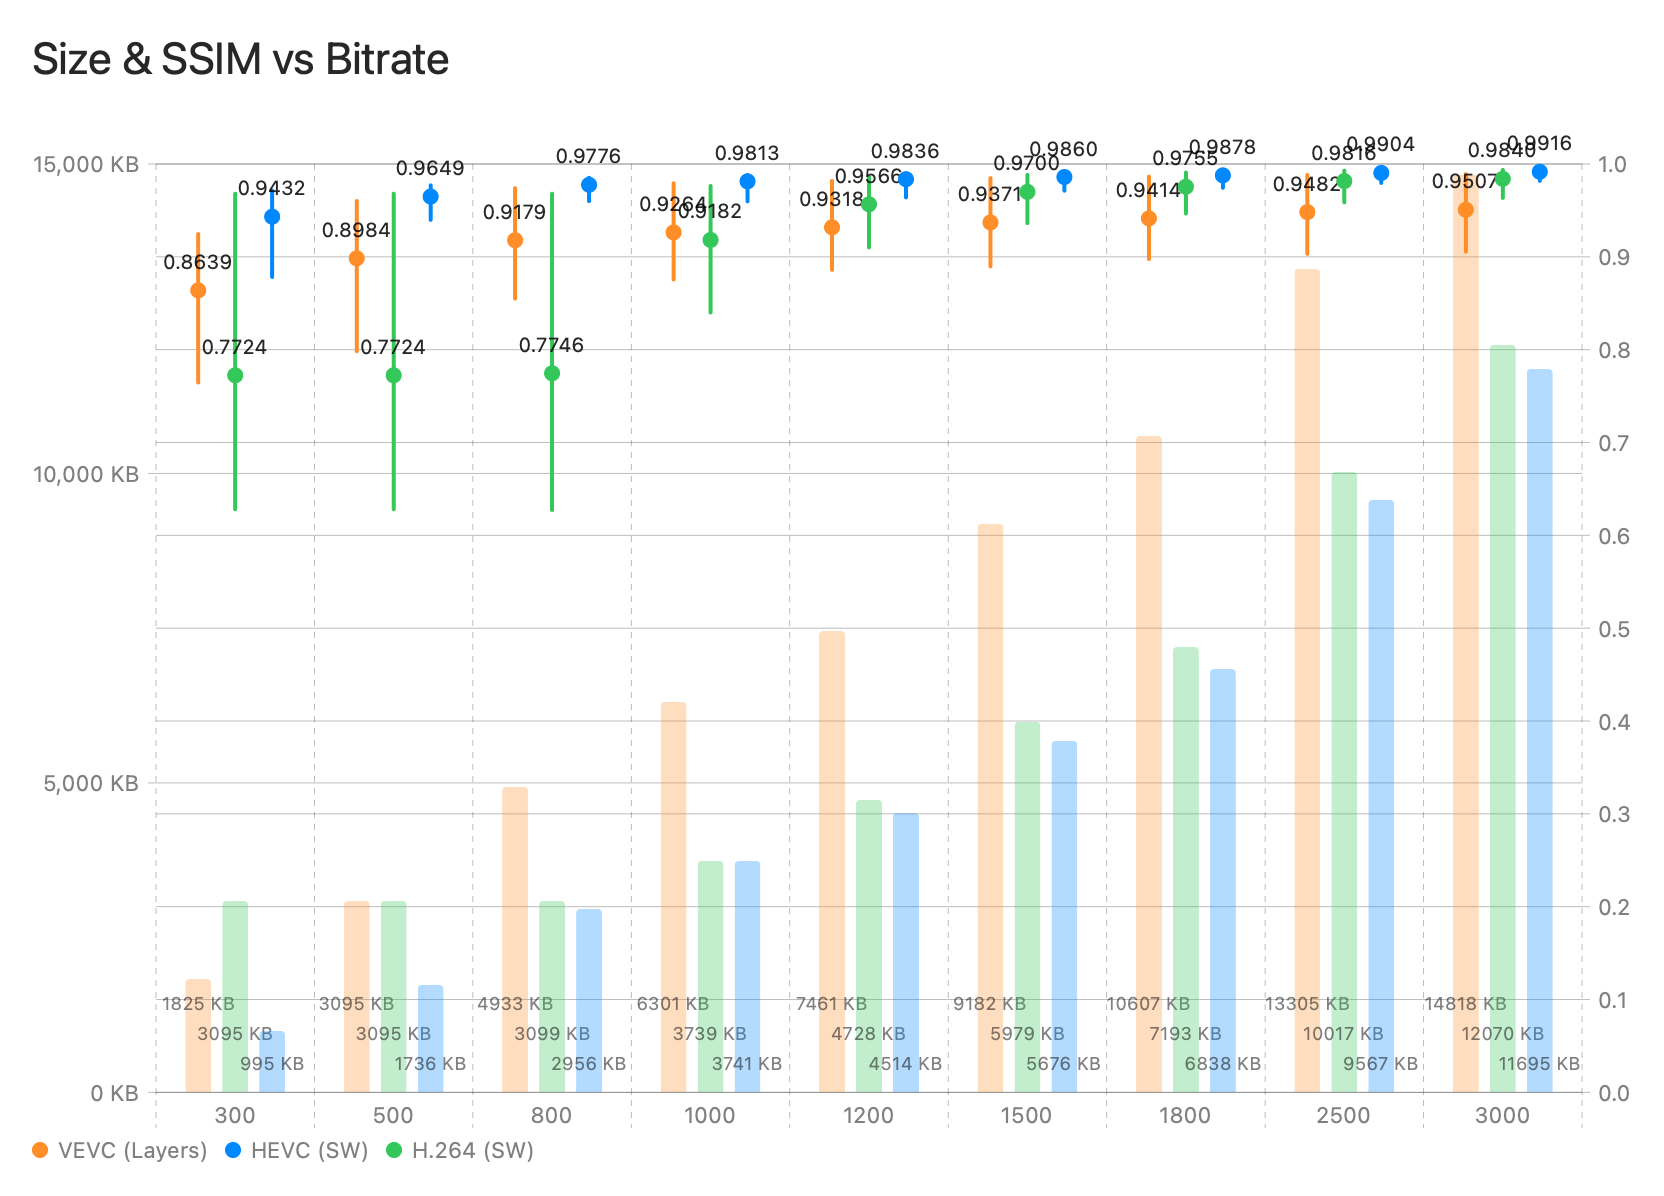
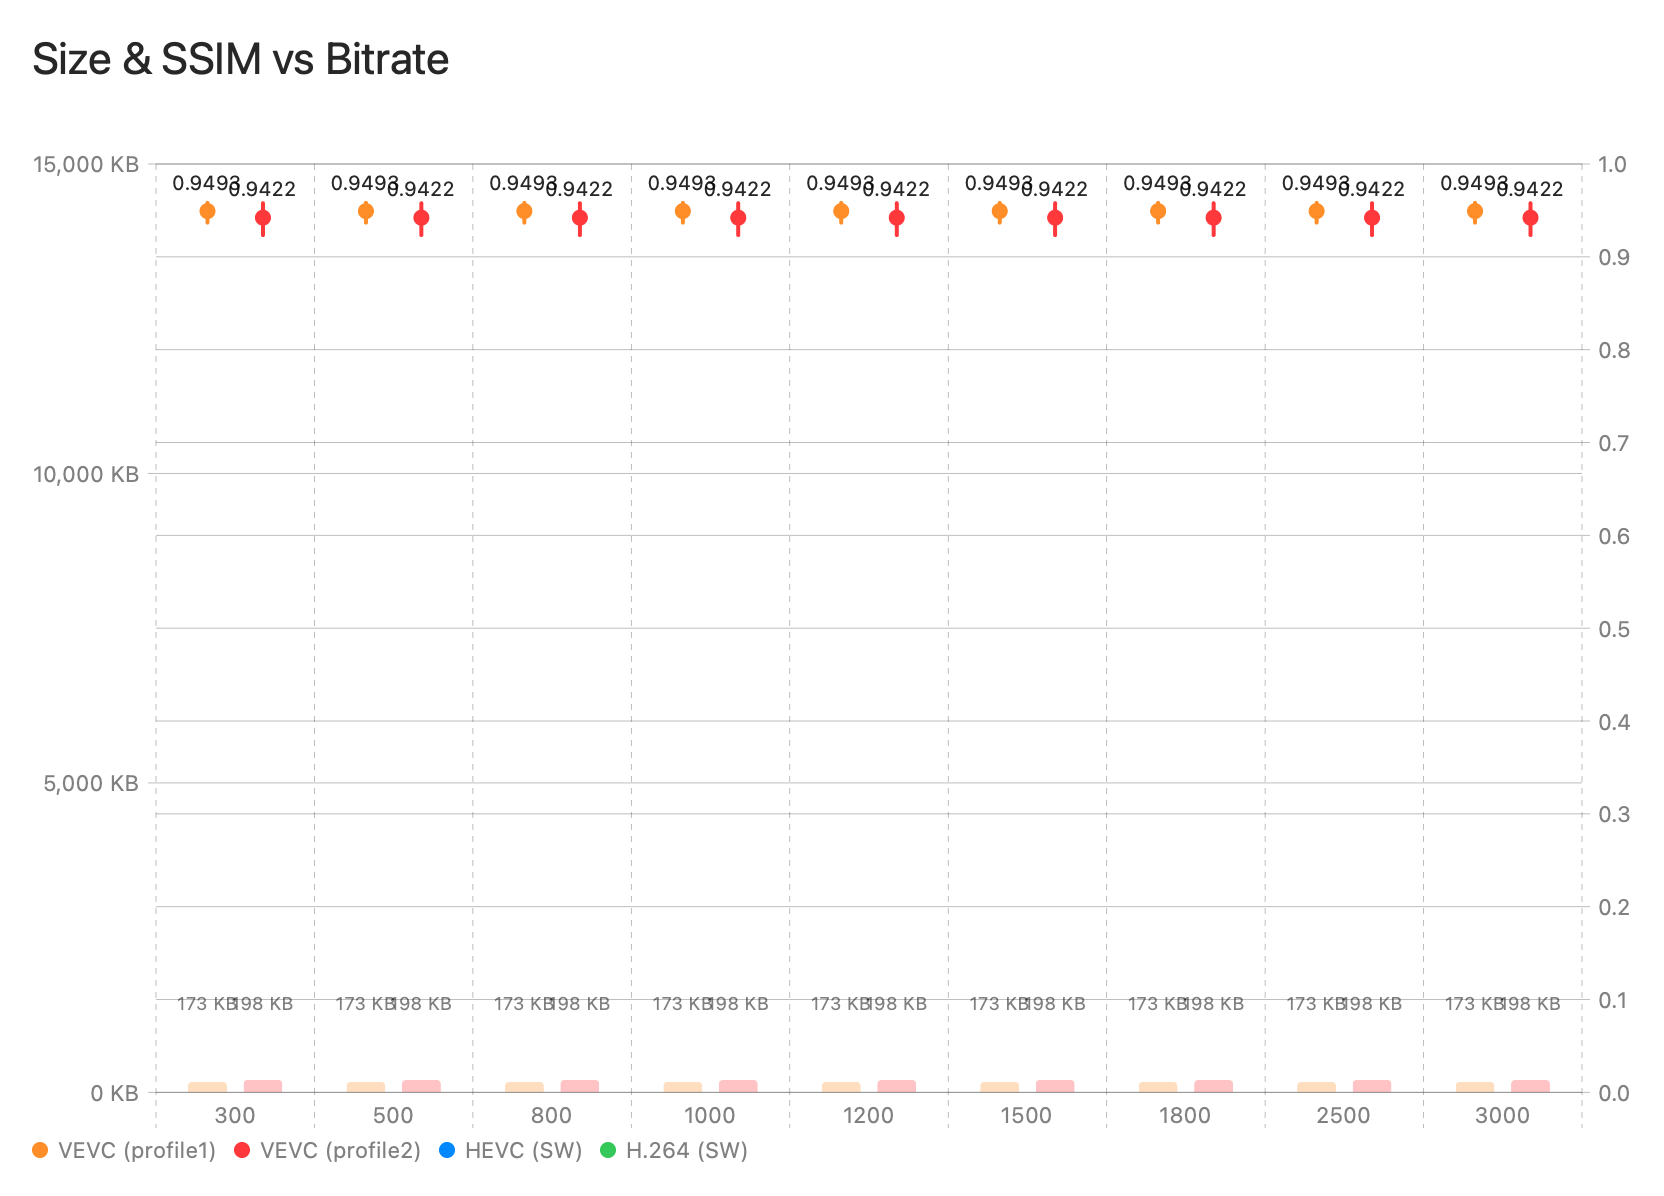
wip

diff --git a/Sources/vevc/EncodePlane.swift b/Sources/vevc/EncodePlane.swift
@@ -19,9 +19,6 @@ func evaluateQuantizeLayer32(view: BlockView, qt: QuantizationTable) {
     quantizeSIMDSignedMapping16(hl, q: qt.qMid)
     quantizeSIMDSignedMapping16(lh, q: qt.qMid)
     quantizeSIMDSignedMapping16(hh, q: qt.qHigh)
-    Diagnostic.record(block: hl, layer: 2, subband: "HL")
-    Diagnostic.record(block: lh, layer: 2, subband: "LH")
-    Diagnostic.record(block: hh, layer: 2, subband: "HH")
 }
 
 @inline(__always)
@@ -33,9 +30,6 @@ func evaluateQuantizeLayer16(view: BlockView, qt: QuantizationTable) {
     quantizeSIMDSignedMapping8(hl, q: qt.qMid)
     quantizeSIMDSignedMapping8(lh, q: qt.qMid)
     quantizeSIMDSignedMapping8(hh, q: qt.qHigh)
-    Diagnostic.record(block: hl, layer: 1, subband: "HL")
-    Diagnostic.record(block: lh, layer: 1, subband: "LH")
-    Diagnostic.record(block: hh, layer: 1, subband: "HH")
 }
 
 @inline(__always)
@@ -49,10 +43,6 @@ func evaluateQuantizeBase8(view: BlockView, qt: QuantizationTable) {
     quantizeSIMDSignedMapping4(hl, q: qt.qMid)
     quantizeSIMDSignedMapping4(lh, q: qt.qMid)
     quantizeSIMDSignedMapping4(hh, q: qt.qHigh)
-    Diagnostic.record(block: ll, layer: 0, subband: "LL")
-    Diagnostic.record(block: hl, layer: 0, subband: "HL")
-    Diagnostic.record(block: lh, layer: 0, subband: "LH")
-    Diagnostic.record(block: hh, layer: 0, subband: "HH")
 }
 
 @inline(__always)

diff --git a/Sources/example/compare.swift b/Sources/example/compare.swift
@@ -895,30 +895,18 @@ struct CompareApp {
             var vevcResultP2: VEVCResultType? = nil
 
             if localConfig.outputGraph {
-                vevcEnableDiagnostics()
-                vevcResetDiagnostics()
                 print("Running vevc (profile 1)...")
                 var configP1 = localConfig
                 configP1.profile = 1
                 vevcResultP1 = try await runVEVC(images: localImages, config: configP1)
-                print("--- Profile 1 Diagnostics ---")
-                vevcPrintDiagnostics()
-                vevcResetDiagnostics()
                 
                 print("Running vevc (profile 2)...")
                 var configP2 = localConfig
                 configP2.profile = 2
                 vevcResultP2 = try await runVEVC(images: localImages, config: configP2)
-                print("--- Profile 2 Diagnostics ---")
-                vevcPrintDiagnostics()
-                vevcDisableDiagnostics()
             } else {
                 print("Running vevc (layers)...")
-                vevcEnableDiagnostics()
-                vevcResetDiagnostics()
                 vevcResult = try await runVEVC(images: localImages, config: localConfig)
-                vevcPrintDiagnostics()
-                vevcDisableDiagnostics()
             }
             
             var h264Result: H264Result? = nil

diff --git a/Sources/vevc/VEVC.swift b/Sources/vevc/VEVC.swift
@@ -425,20 +425,3 @@ final class BlockViewPool: @unchecked Sendable {
     }
 }
 
-// MARK: - Diagnostics
-
-public func vevcEnableDiagnostics() {
-    Diagnostic.enabled = true
-}
-
-public func vevcDisableDiagnostics() {
-    Diagnostic.enabled = false
-}
-
-public func vevcResetDiagnostics() {
-    Diagnostic.reset()
-}
-
-public func vevcPrintDiagnostics() {
-    Diagnostic.printStats()
-}
